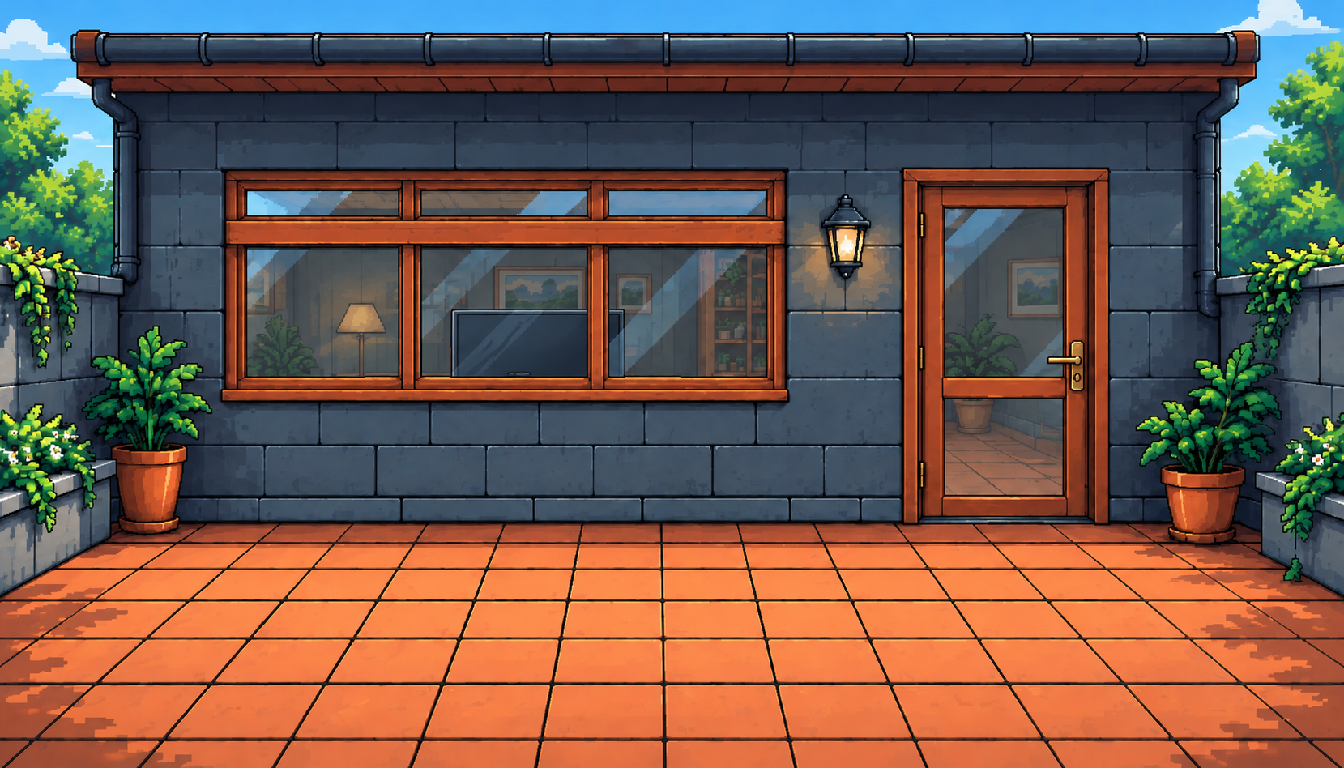
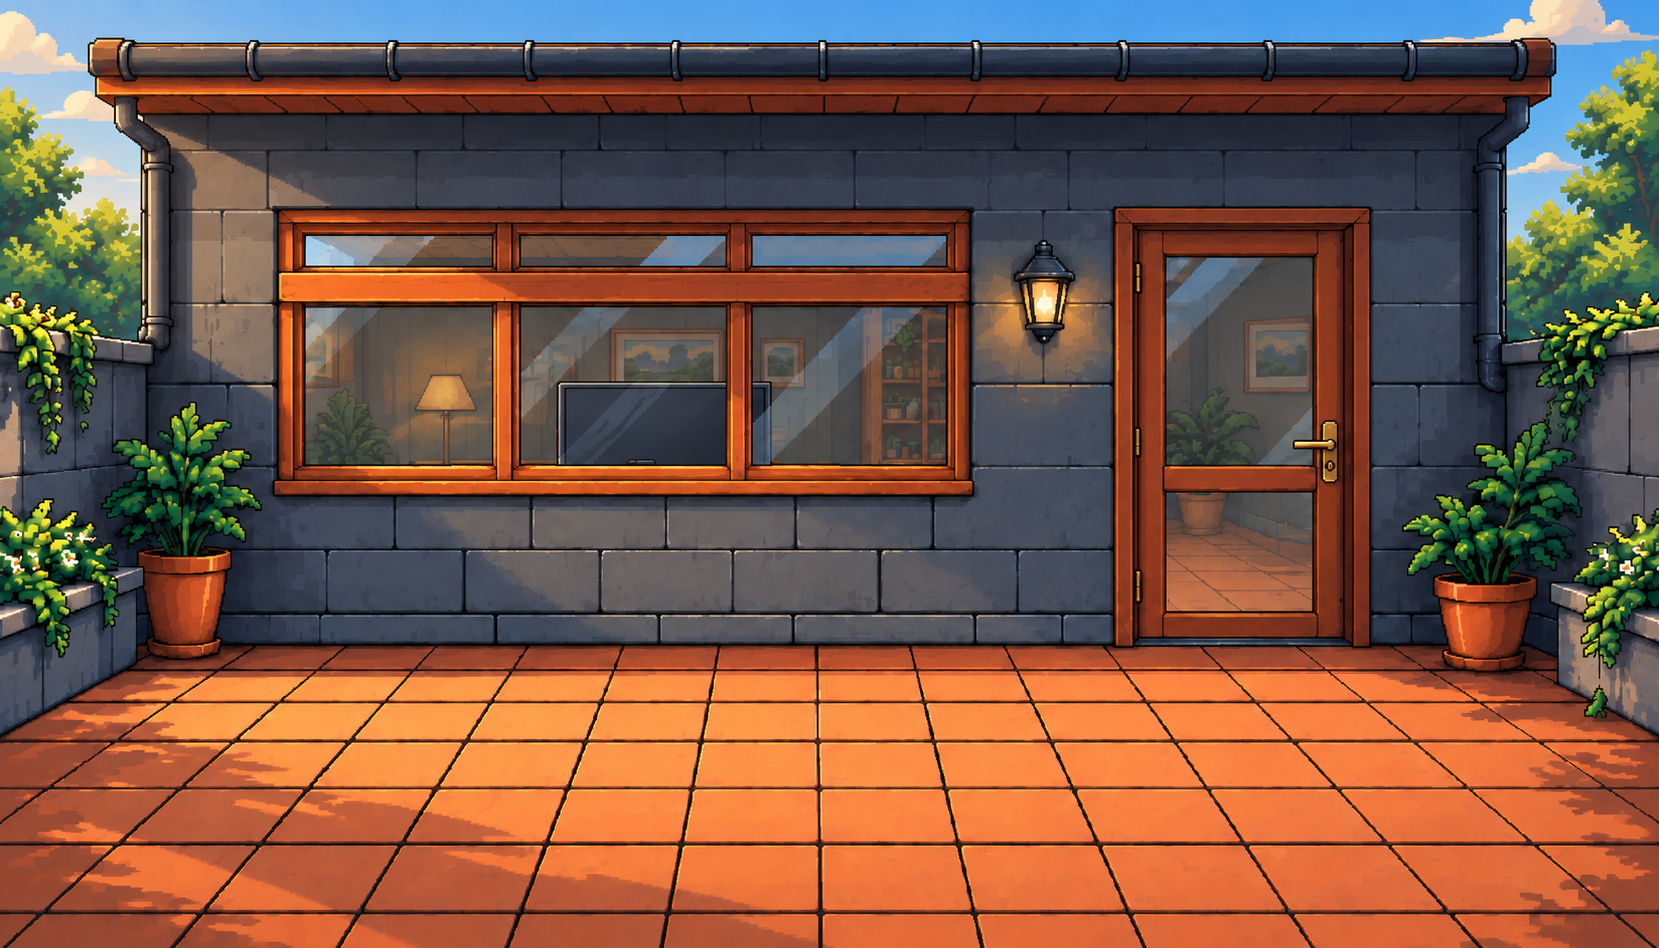
agrego mas sprites ahora del nivel 4

diff --git a/GameProyect/MenuSeleccionNivel.cpp b/GameProyect/MenuSeleccionNivel.cpp
@@ -12,7 +12,7 @@ MenuSeleccionNivel::MenuSeleccionNivel()
     }
 
     if (!_texturaMapa.loadFromFile(
-        "images/UI/seleccion_niveles/mapa_casa_sin_muebles.png"))
+        "images/UI/seleccion_niveles/mapa_casa.png"))
     {
         std::cout << "No se pudo cargar el mapa del selector\n";
     }

diff --git a/GameProyect/MenuPrincipal.cpp b/GameProyect/MenuPrincipal.cpp
@@ -10,7 +10,7 @@ MenuPrincipal::MenuPrincipal()
     _opciones[2].setString("Salir");
 
 
-    if (!_texturaFondo.loadFromFile("images/MenuPrincipal.png"))
+    if (!_texturaFondo.loadFromFile("images/UI/MenuPrincipal.png"))
     {
         std::cout << "ERROR AL CARGAR EL FONDO DEL MENU\n";
     }
